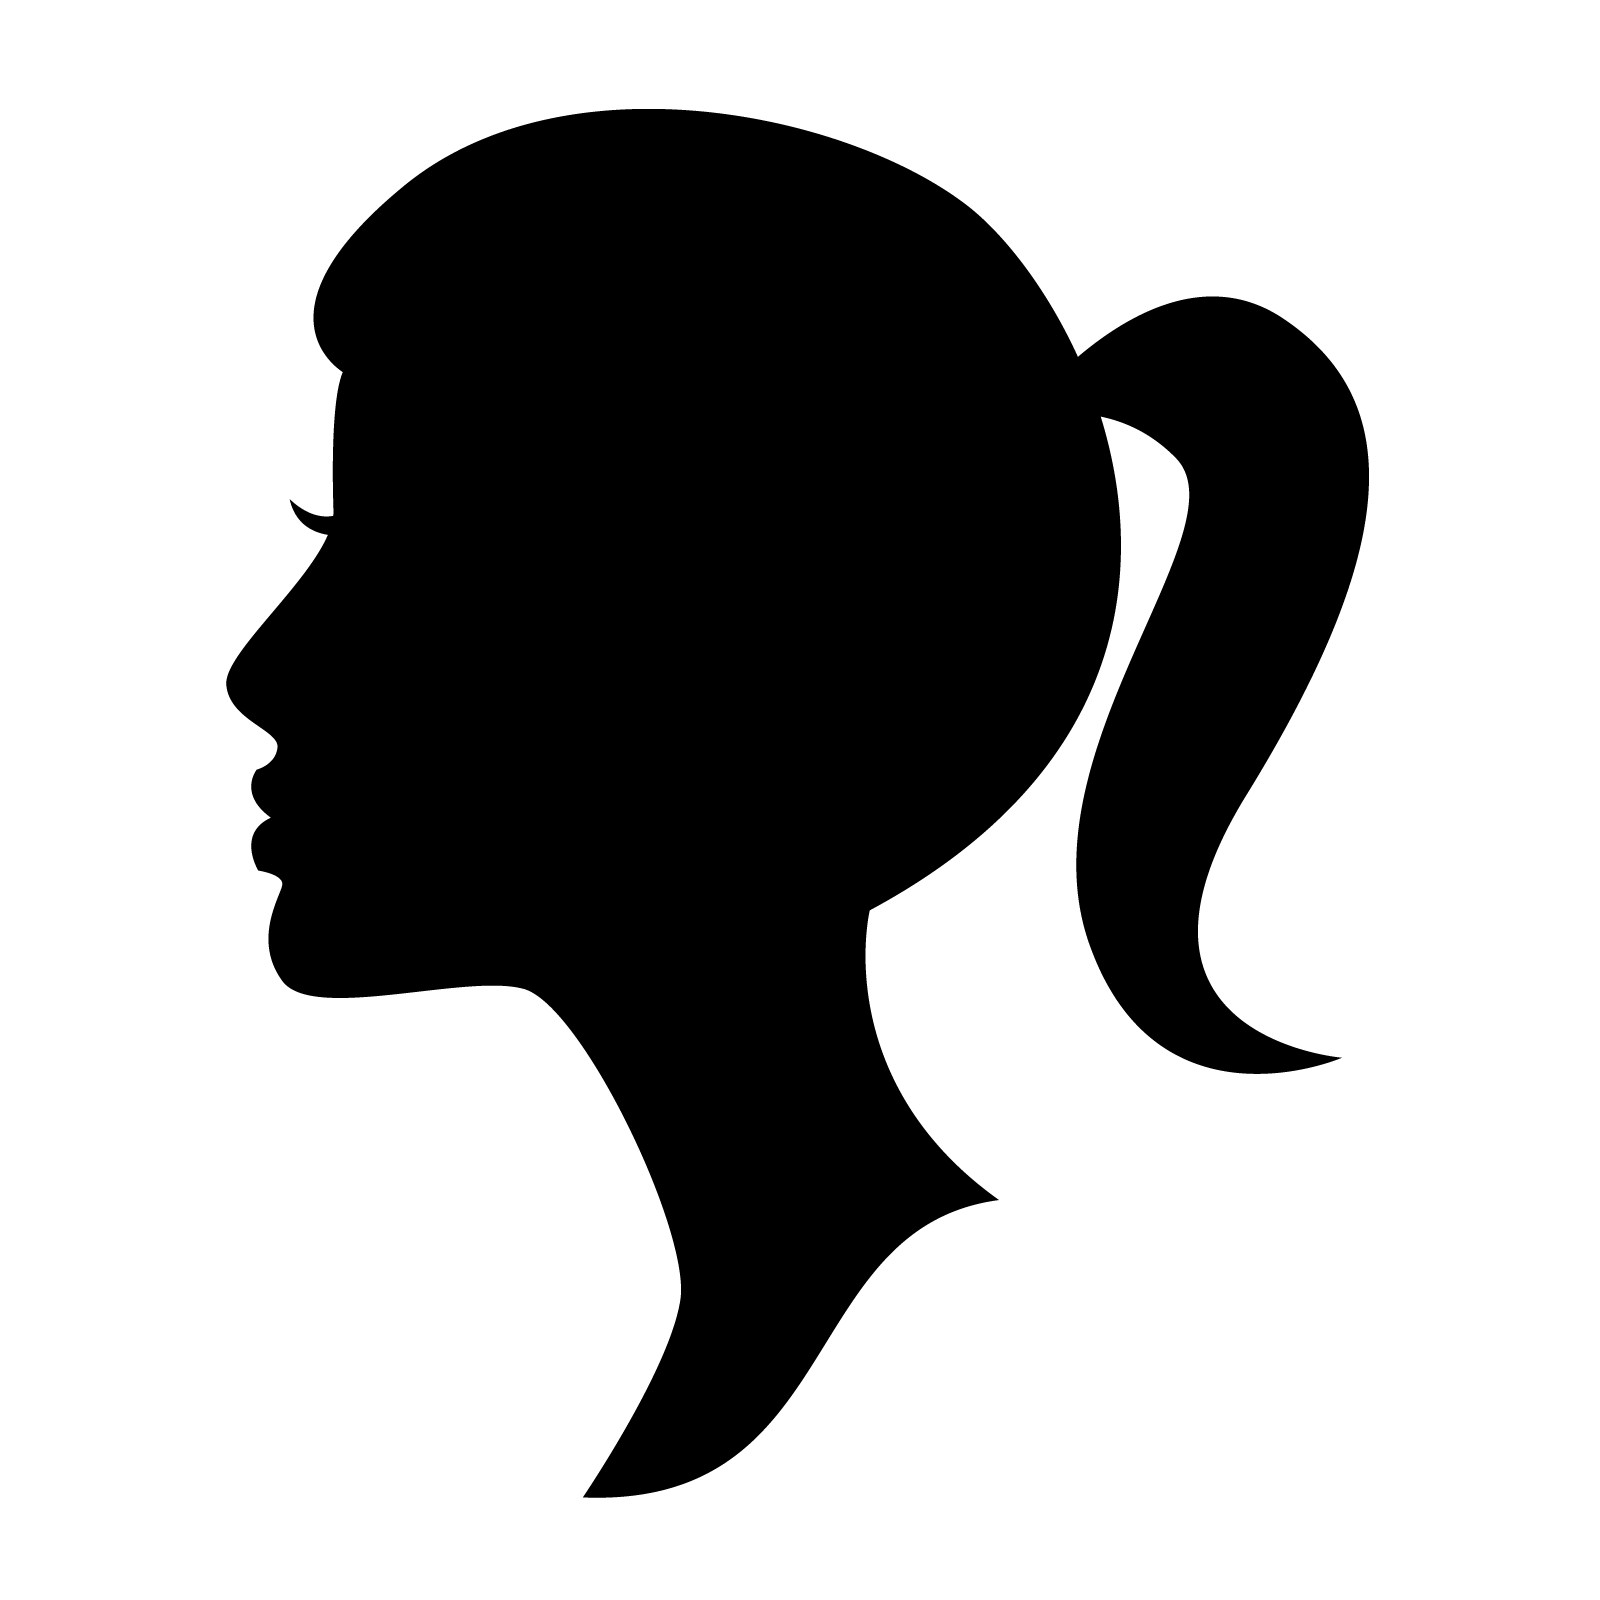
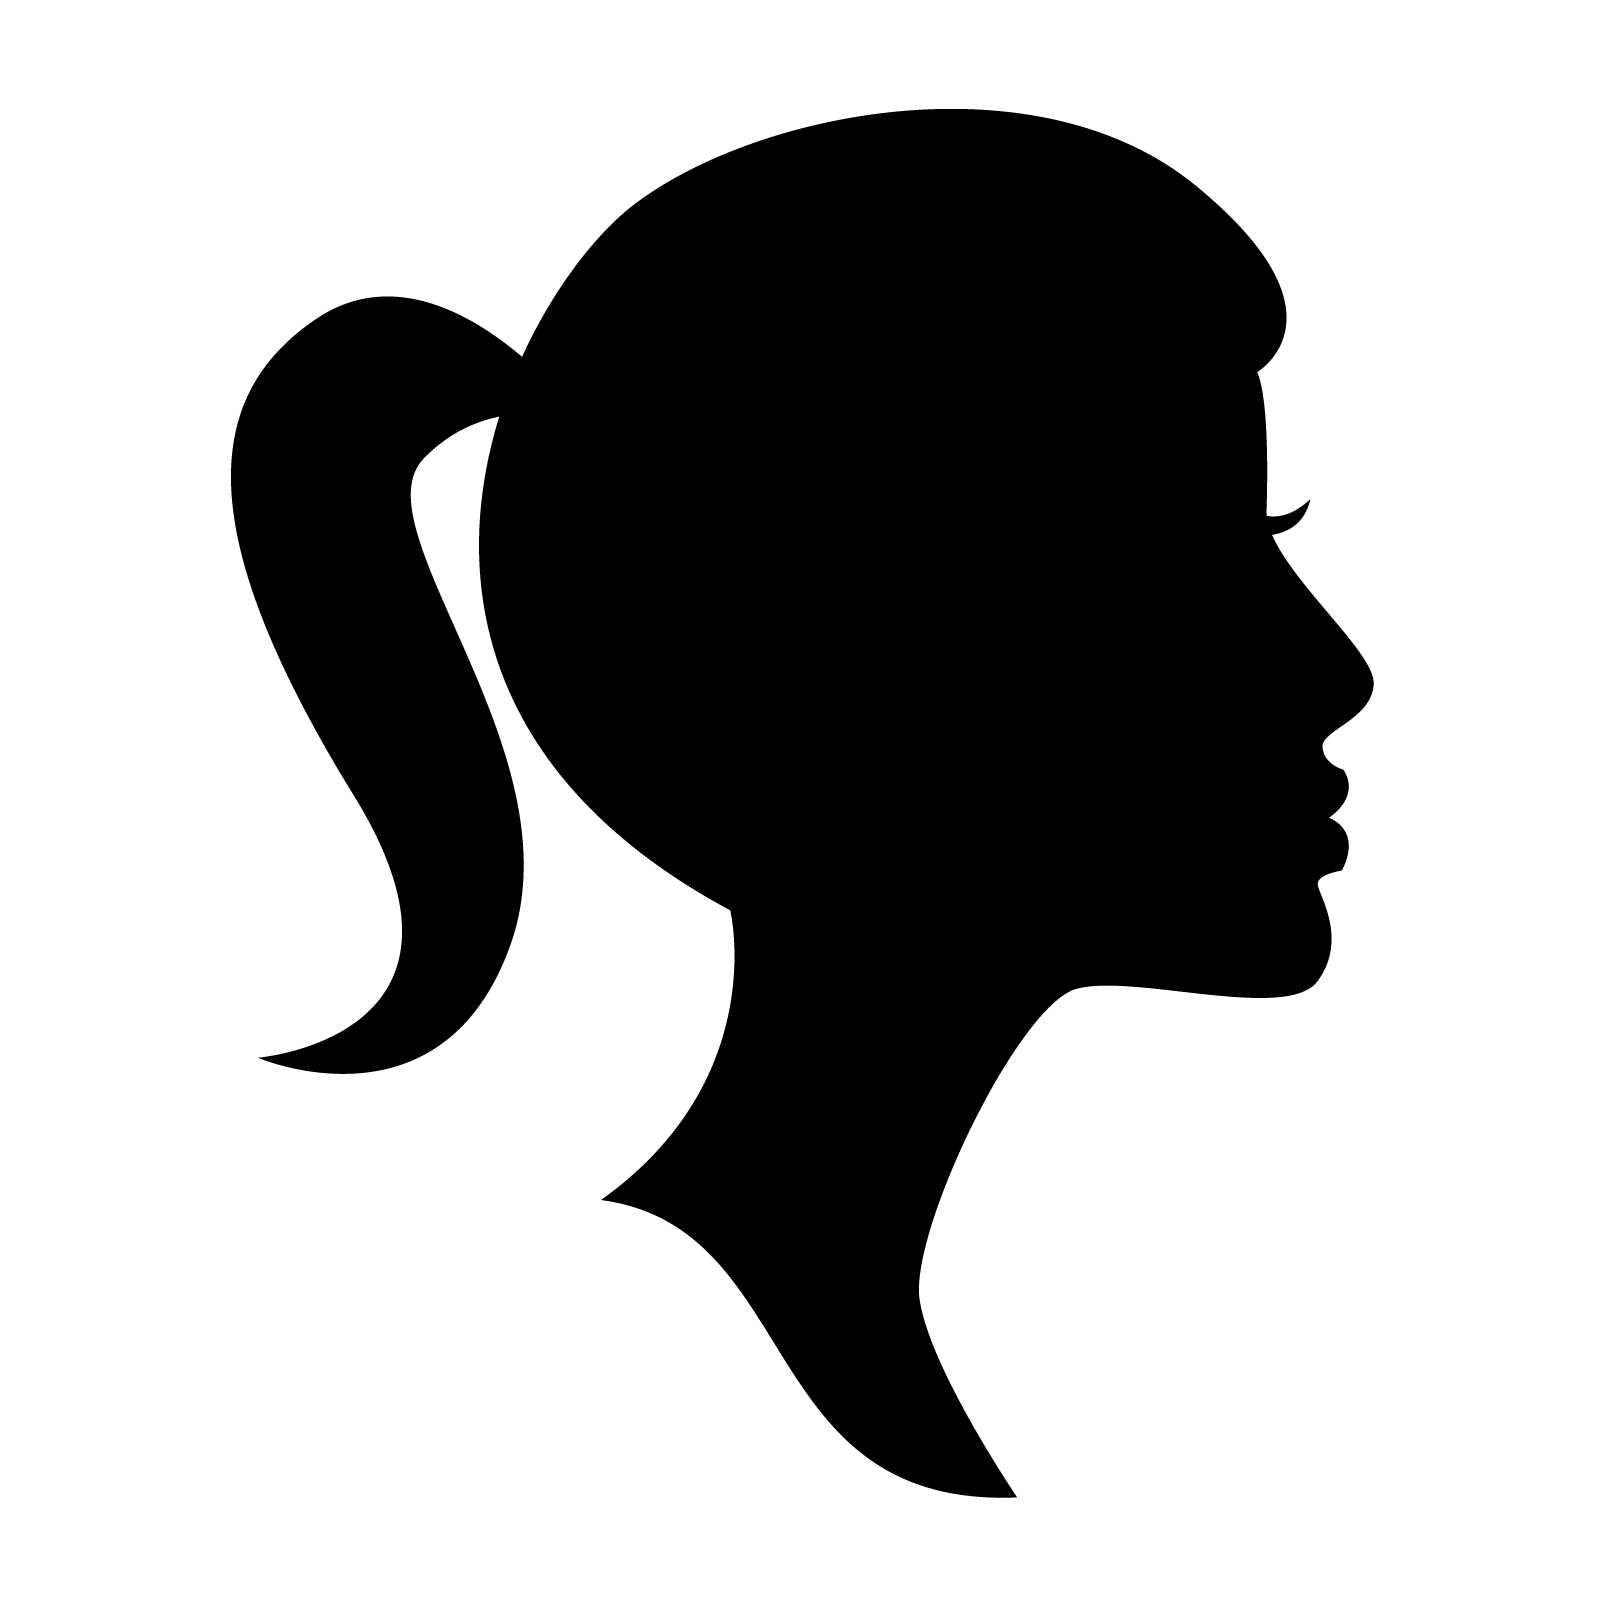
Team silhouettes

Changed region(s): [[0.125, 0.0625, 0.875, 0.9375]]

diff --git a/team.html b/team.html
@@ -49,29 +49,29 @@
             <div class="silhouettes_flex">
                 <a href="natalie.html">
                     <div class="silhouettes_flex_div">
-                        <img id="silhouette1" class="silhouettes_img" src="res/team/NATALIE.png" />
+                        <img id="silhouette1" class="silhouettes_img" src="res/team/flippedNATALIE.png" />
                     </div>
                 </a>
                 <div class="silhouettes_flex_div">
                     <img id="silhouette2" class="silhouettes_img" src="res/team/BEN.png" />
                 </div>
                 <div class="silhouettes_flex_div">
-                    <img id="silhouette3" class="silhouettes_img" src="res/team/DANI.png" />
+                    <img id="silhouette3" class="silhouettes_img" src="res/team/CHI.png" />
                 </div>
                 <div id="toggleLast1Ping" class="silhouettes_flex_div">
-                    <img id="silhouette4" class="silhouettes_img" src="res/team/QUESTION%20MARK.png" />
+                    <img id="silhouette4" class="silhouettes_img" src="res/team/MARC.png" />
                 </div>
                 <div id="toggleLast2Ping" class="silhouettes_flex_div">
-                    <img id="silhouette5" class="silhouettes_img" src="res/team/PAGE.png" />
+                    <img id="silhouette5" class="silhouettes_img" src="res/team/DANI.png" />
                 </div>
             </div>
             
             <div id="rowM" class="silhouettesM_flex">
                 <div class="silhouettesM_flex_div">
-                    <img id="silhouetteM1" class="silhouettes_img" src="res/team/QUESTION%20MARK.png" />
+                    <img id="silhouetteM1" class="silhouettes_img" src="res/team/MARC.png" />
                 </div>
                 <div class="silhouettesM_flex_div">
-                    <img id="silhouetteM2" class="silhouettes_img" src="res/team/PAGE.png" />
+                    <img id="silhouetteM2" class="silhouettes_img" src="res/team/DANI.png" />
                 </div>
             </div>
             
@@ -80,10 +80,10 @@
                     <img id="silhouette21" class="silhouettes_img" src="res/team/JOHN.png" />
                 </div>
                 <div class="silhouettes2_flex_div">
-                    <img id="silhouette22" class="silhouettes_img" src="res/team/CHI.png" />
+                    <img id="silhouette22" class="silhouettes_img" src="res/team/flippedPAGE.png" />
                 </div>
                 <div class="silhouettes2_flex_div">
-                    <img id="silhouette23" class="silhouettes_img" src="res/team/MARC.png" />
+                    <img id="silhouette23" class="silhouettes_img" src="res/team/flippedQUESTION%20MARK.png" />
                 </div>
             </div>
             <footer class="letsWork">
